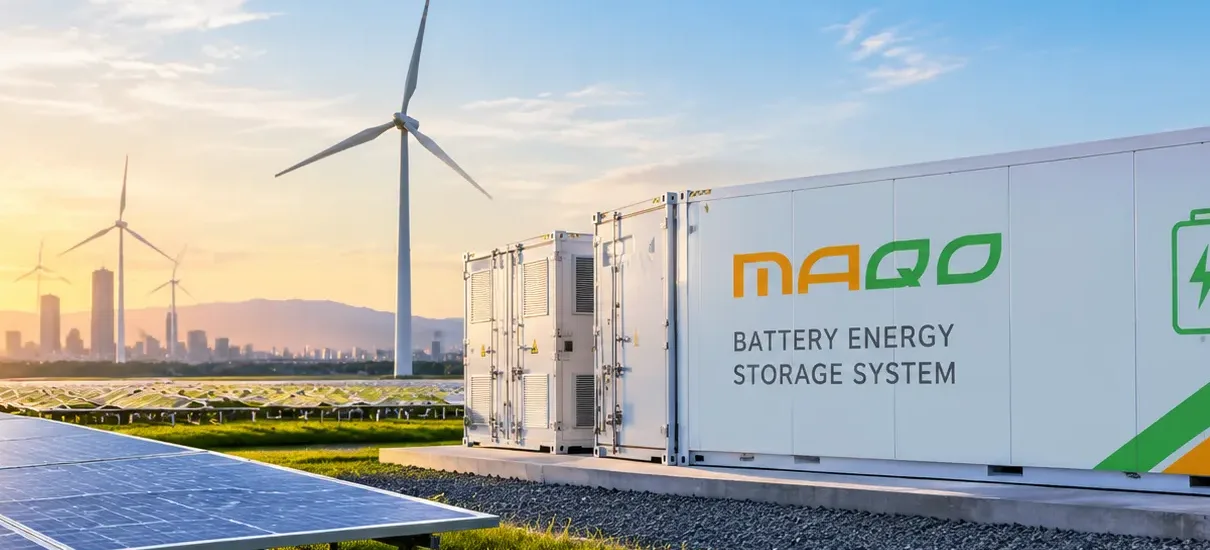
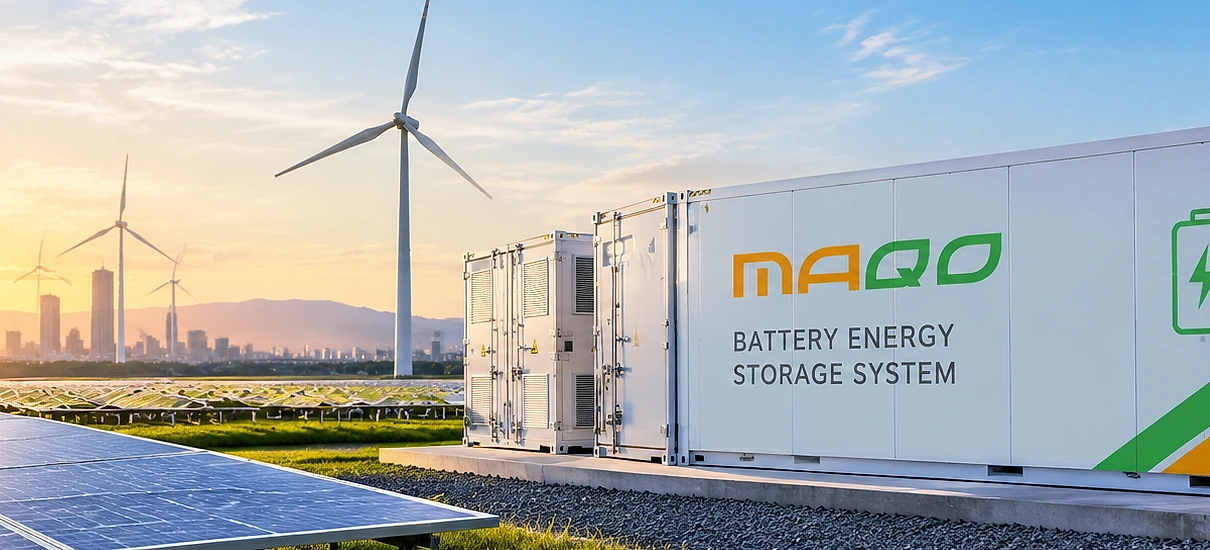
Add scroll-in shake and near-hover grow to the BESS "Doubled" badge
The badge now shakes/pulses once via a scroll-position-linked animation
(animation-timeline: view(), with a plain one-shot fallback) as the
problem section enters view, to draw the eye to it. Hovering near it
(not just exactly on the small pill, via an oversized invisible hit
zone) triggers a bigger overshoot-and-settle grow. It became a link to
the C&I assessment form in a separate concurrent commit; these two
land together so the animation ships with something worth clicking.

Also bump the What Is BESS container photo to higher quality + a touch
of sharpening for a crisper crop.

diff --git a/app/[lang]/(main)/globals.css b/app/[lang]/(main)/globals.css
@@ -350,6 +350,68 @@ body { background: var(--color-base-bg); color: var(--color-base-ink); }
   }
 }
 
+/* ---- "Doubled" badge: scroll-in alert + iMessage-style "loud" hover ----
+   Two separate triggers on the same element:
+   - Base state: a shake/pulse plays once as the card scrolls into view,
+     tied to the badge's own position in the viewport (view-timeline) so it
+     fires right as the user reaches the problem section, not on page load.
+     Browsers without view-timeline support fall back to a plain one-shot
+     play on mount.
+   - :hover (and near-hover, via the oversized ::before hit zone) replaces
+     it with a bigger overshoot-and-settle grow, then a plain transition
+     eases it back down on hover-out. */
+@keyframes bess-doubled-alert {
+  0%, 100% { transform: rotate(-6deg) scale(1); }
+  10%      { transform: rotate(-11deg) scale(1.32) translateX(-2px); }
+  20%      { transform: rotate(2deg) scale(1.05) translateX(2px); }
+  30%      { transform: rotate(-9deg) scale(1.28) translateX(-2px); }
+  40%      { transform: rotate(-2deg) scale(1.08) translateX(1px); }
+  55%      { transform: rotate(-8deg) scale(1.2); }
+  70%      { transform: rotate(-4deg) scale(1.05); }
+  85%      { transform: rotate(-6deg) scale(1.1); }
+}
+@keyframes bess-loud {
+  0%   { transform: rotate(-6deg) scale(1); }
+  30%  { transform: rotate(-6deg) scale(1.7); }
+  50%  { transform: rotate(-6deg) scale(1.32); }
+  70%  { transform: rotate(-6deg) scale(1.55); }
+  100% { transform: rotate(-6deg) scale(1.45); }
+}
+.bess-loud-badge {
+  position: absolute;
+  transform-origin: center;
+  transition: transform 0.35s ease-out, box-shadow 0.35s ease-out;
+  animation: bess-doubled-alert 1.3s ease-in-out 0.4s both;
+}
+@supports (animation-timeline: view()) {
+  .bess-loud-badge {
+    animation-timeline: view();
+    animation-range: entry 15% entry 60%;
+  }
+}
+/* Invisible halo so hovering *near* the pill (not just exactly on it)
+   still counts — pointer events over a descendant box bubble up to this
+   element even where the halo renders outside its own border box. */
+.bess-loud-badge::before {
+  content: "";
+  position: absolute;
+  inset: -14px;
+}
+.bess-loud-badge:hover {
+  animation: bess-loud 0.6s cubic-bezier(0.22, 1, 0.36, 1) forwards;
+  box-shadow: 0 14px 32px -8px var(--color-brand-orange), 0 4px 14px rgb(0 0 0 / 0.25);
+  z-index: 30;
+}
+@media (prefers-reduced-motion: reduce) {
+  .bess-loud-badge {
+    animation: none;
+  }
+  .bess-loud-badge:hover {
+    animation: none;
+    transform: rotate(-6deg) scale(1.3);
+  }
+}
+
 /* ---- C&I hero backdrop -------------------------------------------------
    Blue counterpart to the EV hero: a vertical wash, a 64px rule grid masked
    to the top-left so it dissolves before it reaches the enquiry form, and two
